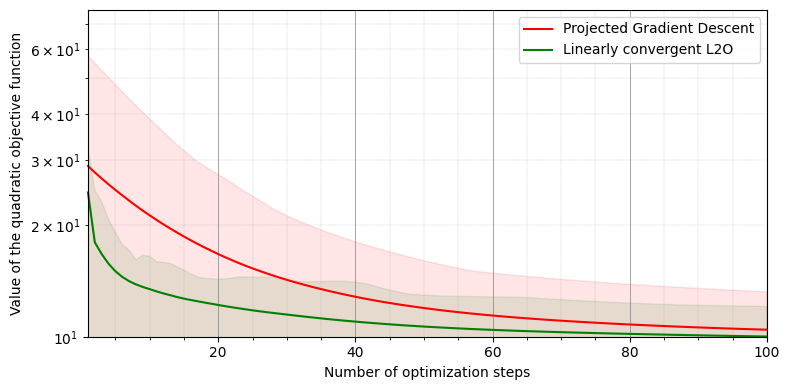
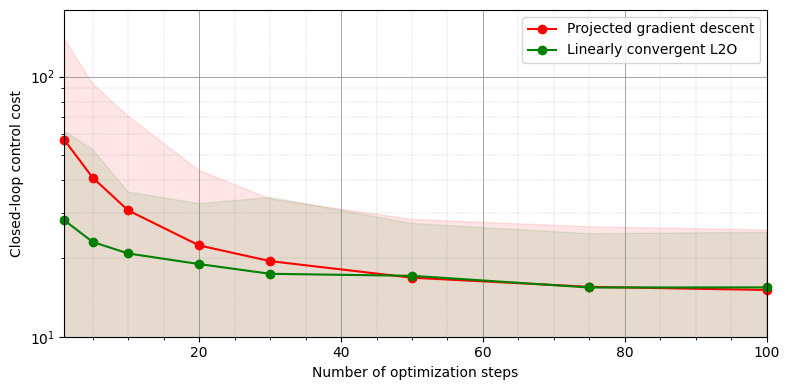
Simulated with small process noise, saved data

diff --git a/main_mpc.py b/main_mpc.py
@@ -25,7 +25,7 @@ class LinearDynamicalSystem:
         u = u.to(self.device)
         self.x = self.A @ self.x + self.B @ u
         if noisy: 
-            self.x = self.x + torch.randn((self.n, 1), device=self.device) * 0.01  # Add small noise
+            self.x = self.x + torch.randn((self.n, 1), device=self.device) * 0.005  # Add small noise
         return self.x
 
     def reset(self, x0=None):
@@ -343,7 +343,7 @@ def run_mpc_loop_pgd(ocp, eta_pgd, max_iterations, control_horizon):
         u, J = projected_gradient_descent(u, g, l, project, iterations=max_iterations, step_size=eta_pgd)
         u = u[:, -ocp.sys.m * ocp.T:-ocp.sys.m * (ocp.T - 1), :].squeeze(0)
         # print(f"Optimal control input at time {t}: {U.squeeze().cpu().numpy()}\n")
-        ocp.sys.step(u, noisy=False)
+        ocp.sys.step(u, noisy=True)
 
         X.append(ocp.sys.x)
         U.append(u)
@@ -367,7 +367,7 @@ def run_mpc_loop_l2o(ocp, learned_update, eta_pgd, max_iterations, control_horiz
             print("Violations!")
         u = u[:, -ocp.sys.m * ocp.T:-ocp.sys.m * (ocp.T - 1), :].squeeze(0)
         # print(f"Optimal control input at time {t}: {U.squeeze().cpu().numpy()}\n")
-        ocp.sys.step(u, noisy=False)
+        ocp.sys.step(u, noisy=True)
 
         X.append(ocp.sys.x)
         U.append(u)
@@ -456,7 +456,7 @@ def main():
     learned_update.eval()
 
 
-    data_file = 'mpc_cost_data.npz'
+    data_file = 'mpc_cost_data_noisy.npz'
     
     if False:#not os.path.exists(data_file):
         print("Starting MPC loop with different solvers...")
@@ -792,7 +792,7 @@ def main():
     
     # Compute lower and upper quantiles (e.g., 10% and 90% quantiles)
 
-    upper_quantile = 0.8
+    upper_quantile = 0.9
     pgd_lower = np.array([
         np.quantile(cost_pgd_b, 0.1),
         np.quantile(cost_pgd_1, 0.1),
